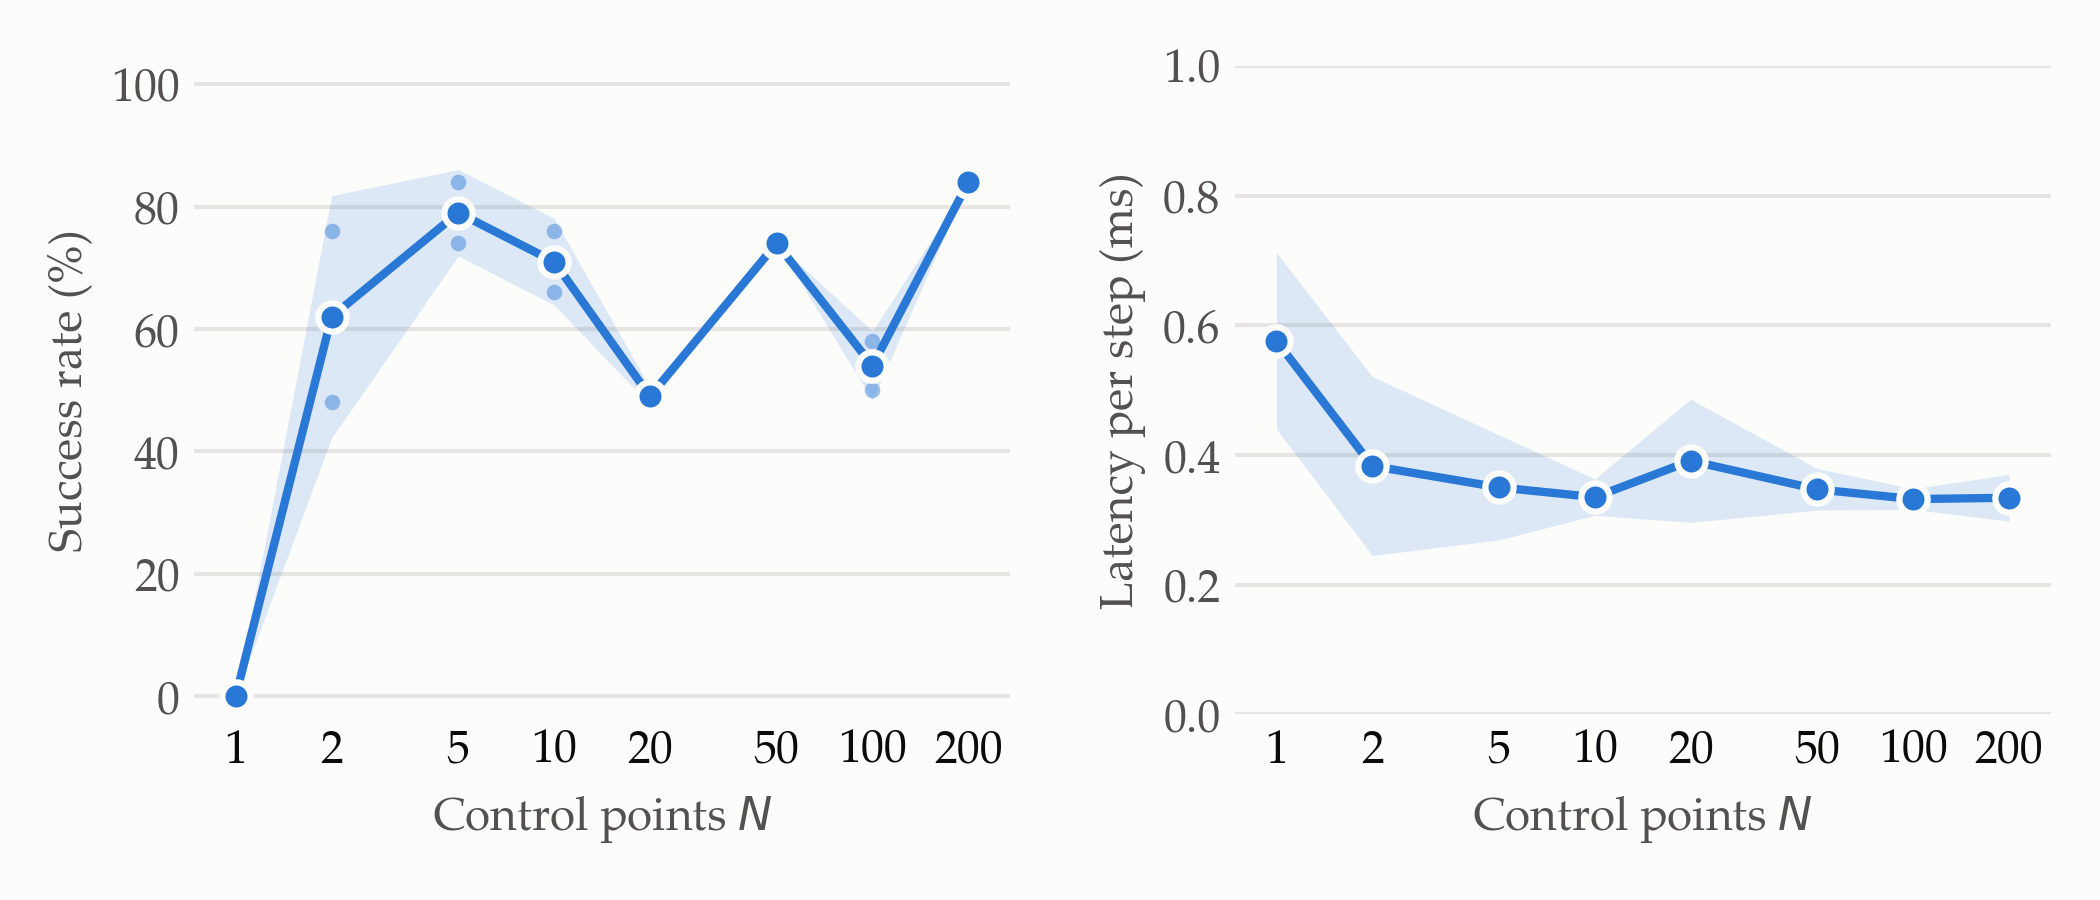
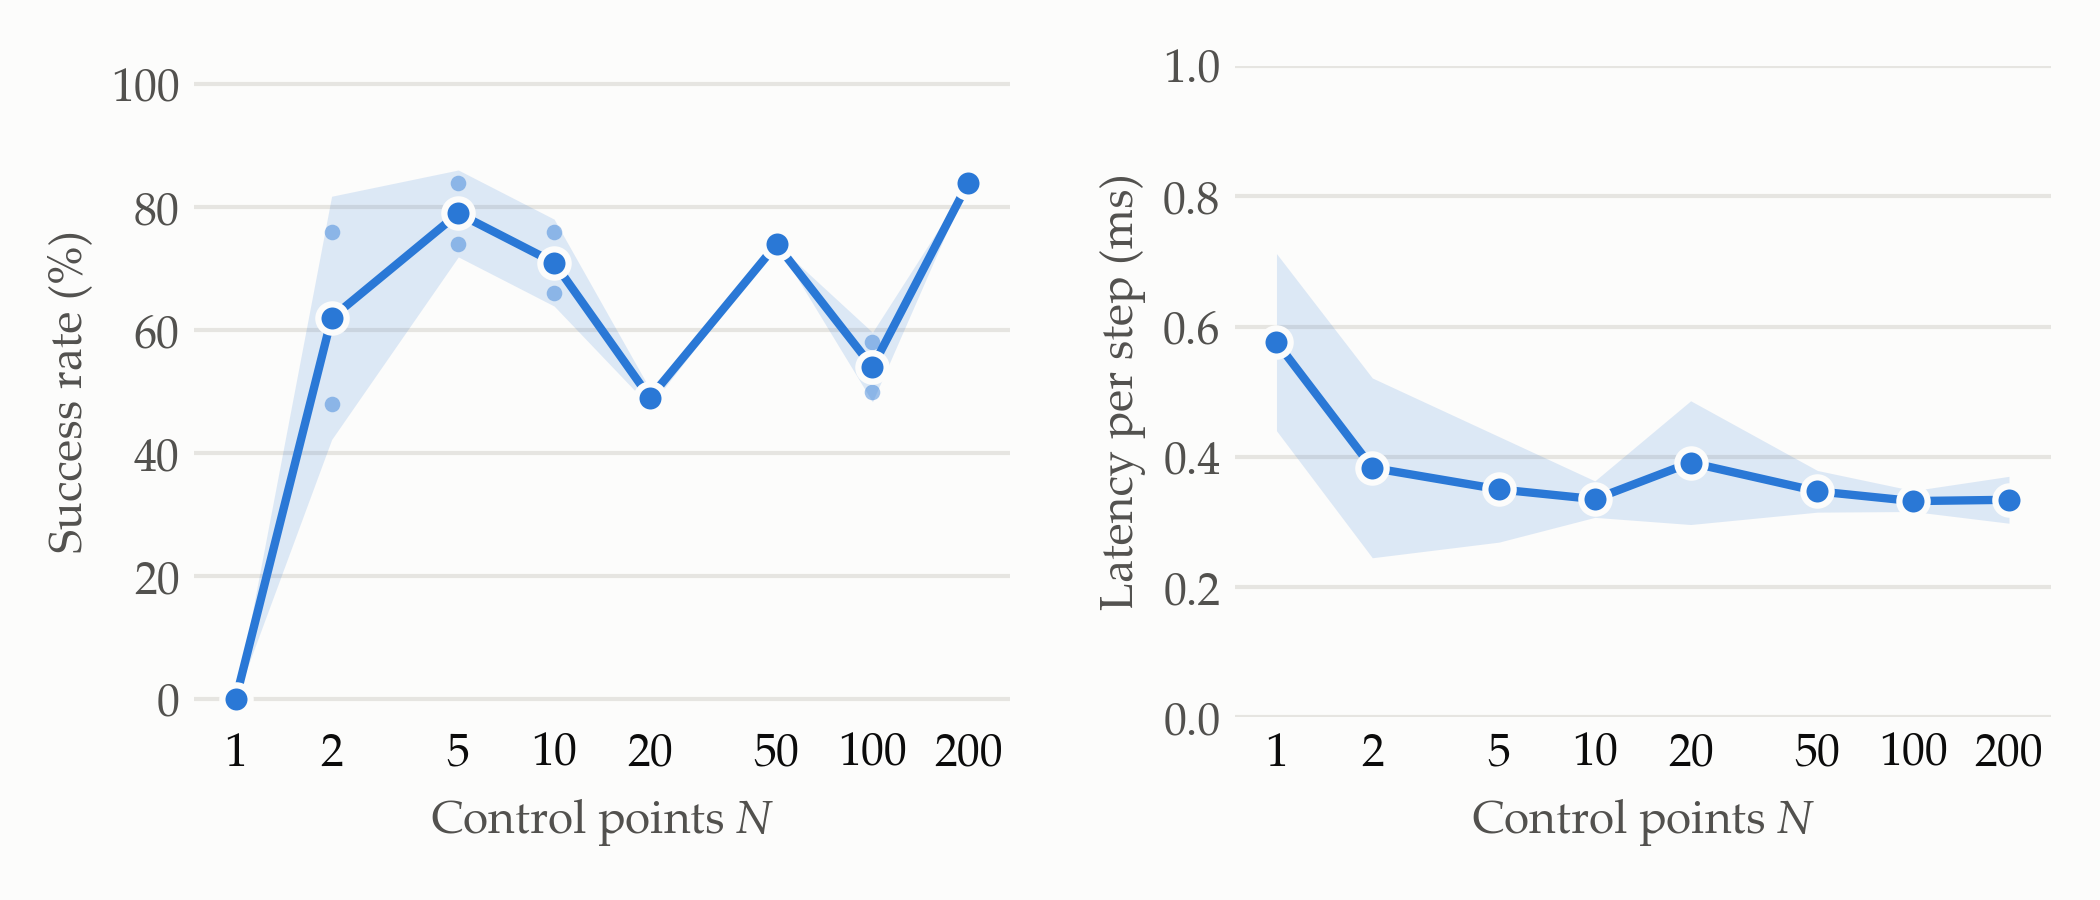
plots: Palatino for math text too; particle leftmost in separation vs entropy
use_palatino() now also sets mathtext to Palatino Linotype (roman/italic/bold)
and requires the italic face, so $N$ no longer falls back to DejaVu. Both PDFs
embed only PalatinoLinotype-Roman/-Italic. Particle (16D) is the first group;
the legend moves to the lower right, clear of its full-range whisker.

diff --git a/scripts/plot_ablation_separation.py b/scripts/plot_ablation_separation.py
@@ -10,7 +10,7 @@ compact, untitled paper figure set in Palatino Linotype (PNG + PDF).
                     separation_loss="entropy", the "separation_loss=separation" arm
                     changes only that key.
   Particle (16D):   the N=5 runs of the N-sweep batch (argmax recipe), entropy vs
-                    separation at identical fixed params, seeds 0 and 1.
+                    separation at identical fixed params, every scored seed of each arm.
 
 Whiskers are clipped to the 0-100 % range success rates can take.
 
@@ -98,10 +98,10 @@ def load_nsweep_arms(batch: str, env: str, n_cp: int) -> tuple[dict, dict]:
     return as_percent(arms["entropy"]), as_percent(arms["separation"])
 
 
-ENVS = [("Pushing (states)", lambda: load_arm_values("ablPushingStates.txt", "pushing")),
+ENVS = [("Particle (16D)", lambda: load_nsweep_arms("nsweepParticle16.txt", "particle/16", n_cp=5)),
+        ("Pushing (states)", lambda: load_arm_values("ablPushingStates.txt", "pushing")),
         ("Pushing (pixels)", lambda: load_arm_values("ablPushingPixels.txt", "pushing_pixels")),
-        ("LIBERO-Goal (pixels)", lambda: load_arm_values("ablLibero.txt", "libero_goal_pixels")),
-        ("Particle (16D)", lambda: load_nsweep_arms("nsweepParticle16.txt", "particle/16", n_cp=5))]
+        ("LIBERO-Goal (pixels)", lambda: load_arm_values("ablLibero.txt", "libero_goal_pixels"))]
 
 
 def use_palatino() -> str:
@@ -113,6 +113,12 @@ def use_palatino() -> str:
             fm.fontManager.addfont(str(path))
     if not any(f.name == name for f in fm.fontManager.ttflist):
         raise SystemExit("Palatino Linotype not found (looked in matplotlib, /mnt/c/Windows/Fonts, ~/.fonts)")
+    styles = {f.style for f in fm.fontManager.ttflist if f.name == name}
+    if "italic" not in styles:
+        raise SystemExit(f"Palatino Linotype italic not found (styles registered: {sorted(styles)})")
+    # Math text ($N$) otherwise falls back to DejaVu; typeset it in Palatino too.
+    plt.rcParams.update({"mathtext.fontset": "custom", "mathtext.rm": name, "mathtext.it": f"{name}:italic",
+                         "mathtext.bf": f"{name}:bold", "mathtext.default": "it"})
     return name
 
 
@@ -160,7 +166,7 @@ def main() -> int:
     ax.tick_params(axis="both", length=0)
     handles = [Line2D([], [], marker="o", linestyle="", markersize=8, markerfacecolor=c, markeredgecolor=SURFACE,
                       markeredgewidth=2, label=l) for c, l in ((C_ENT, "Entropy loss"), (C_SEP, "Separation loss"))]
-    ax.legend(handles=handles, loc="lower left", frameon=False, fontsize=10, labelcolor=TEXT, handletextpad=0.3)
+    ax.legend(handles=handles, loc="lower right", frameon=False, fontsize=10, labelcolor=TEXT, handletextpad=0.3)
     fig.tight_layout()
     args.out.parent.mkdir(parents=True, exist_ok=True)
     fig.savefig(args.out, dpi=300, facecolor=SURFACE)
